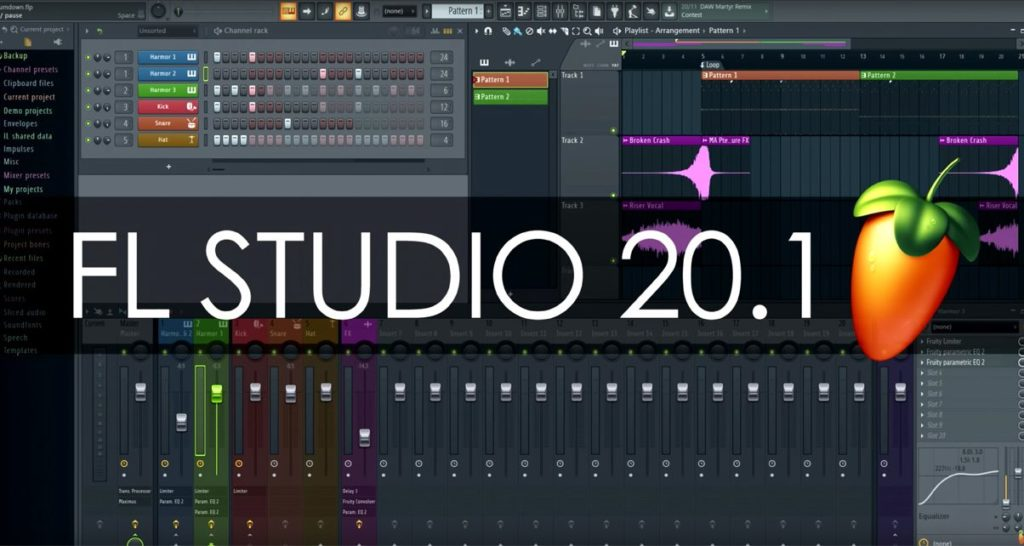
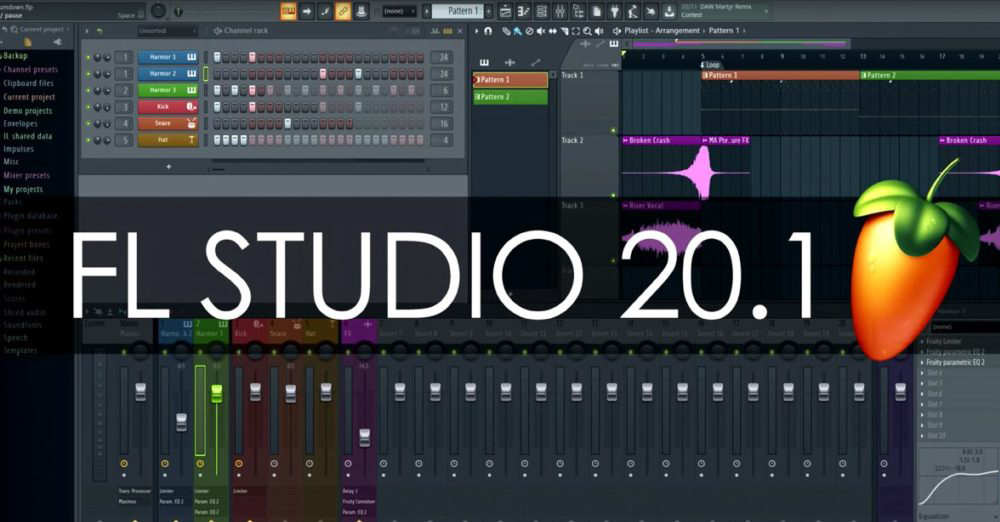
426219

diff --git a/MUSIC.html b/MUSIC.html
@@ -66,7 +66,7 @@
             </div>
 			<div class="u-container-style u-list-item u-repeater-item">
               <div class="u-container-layout u-similar-container u-container-layout-1">
-                <img src="images/fl.png" alt="" class="u-expanded-width-lg u-expanded-width-md u-expanded-width-sm u-expanded-width-xs u-image u-image-default u-image-1" data-image-width="1200" data-image-height="1500">
+                <img src="images/fl.jpg" alt="" class="u-expanded-width-lg u-expanded-width-md u-expanded-width-sm u-expanded-width-xs u-image u-image-default u-image-1" data-image-width="1200" data-image-height="1500">
                 <h6 class="u-text u-text-default u-text-2">Fl studio 20</h6>
                 <p class="u-align-center u-text u-text-default u-text-3">15/8/2021</p>
                 <p class="u-text u-text-4">
